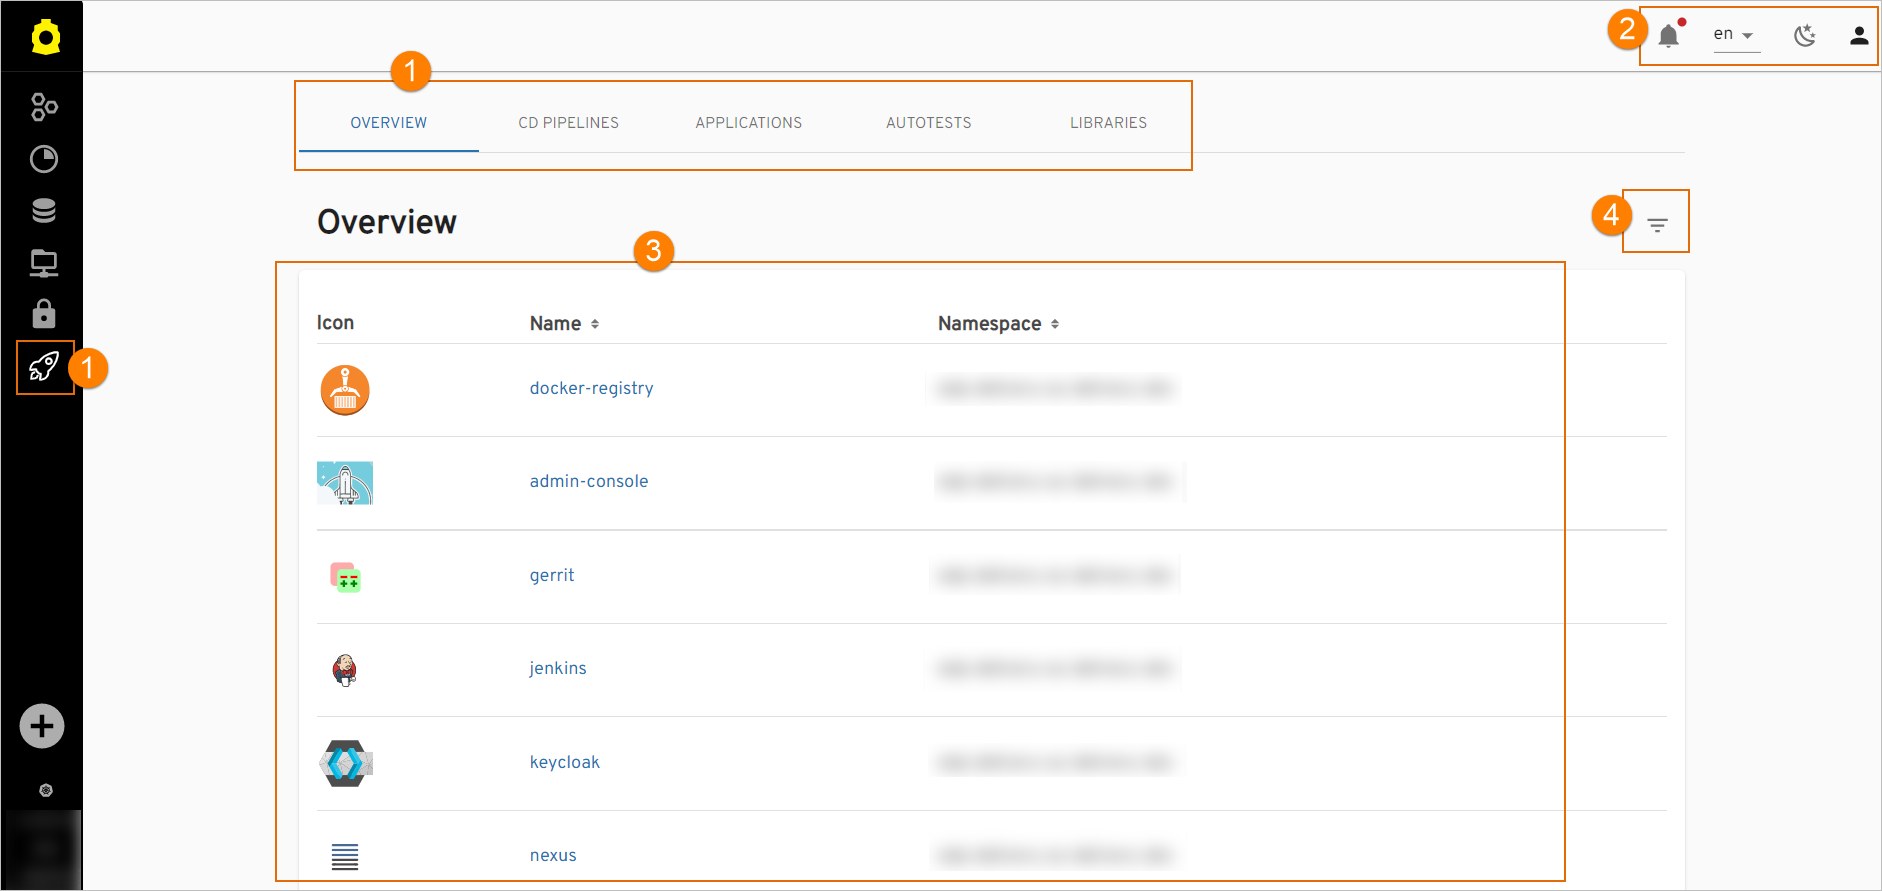
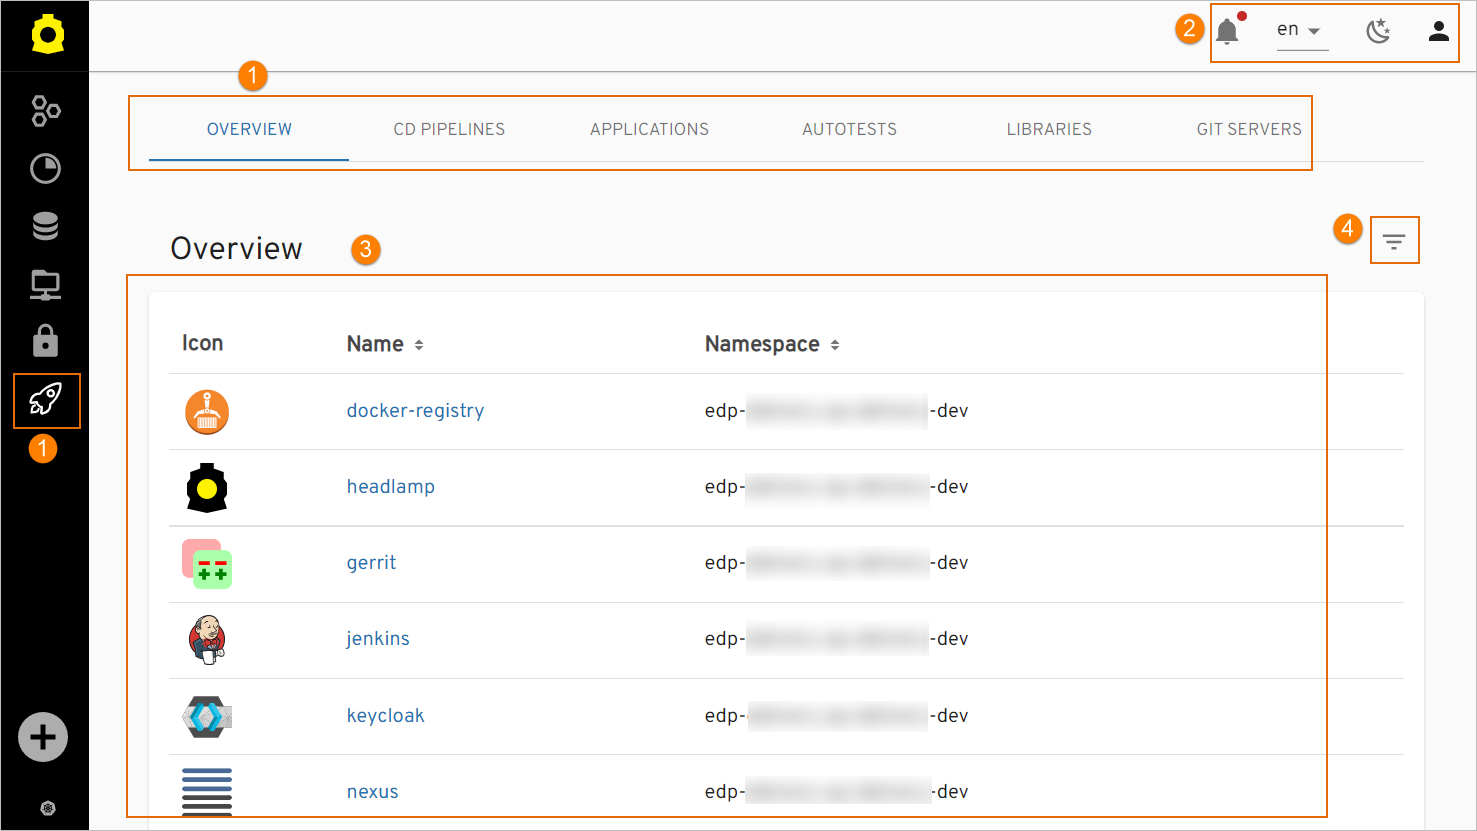
[EPMDEDP-11182]: docs: Update Headlamp User Guide
Updated CD pipeline stages description; added Tekton mentions; updated Headlamp Overview page

diff --git a/docs/headlamp-user-guide/add-cd-pipeline.md b/docs/headlamp-user-guide/add-cd-pipeline.md
@@ -102,11 +102,11 @@ page for details.
   g. Add an unlimited number of quality gates by clicking a corresponding plus sign icon and remove them as well
 by clicking the recycle bin icon;
 
-  h. Type the step name, which will be displayed in Jenkins, for every quality gate;
+  h. Type the step name, which will be displayed in Jenkins/Tekton, for every quality gate;
 
   i. Select the quality gate type:
 
-  * Manual - means that the promoting process should be confirmed in Jenkins manually;
+  * Manual - means that the promoting process should be confirmed in Jenkins/Tekton manually;
   * Autotests - means that the promoting process should be confirmed by the successful passing of the autotests.
 
   In the additional fields, select the previously created autotest name (j) and specify its branch for the autotest
@@ -126,55 +126,121 @@ next to its name.
 13. Click the **Apply** button to start the provisioning of the pipeline. After the CD pipeline is added, the new project
 with the stage name will be created in OpenShift.
 
-### Check CD Pipeline Availability
+## Manage CD Pipeline
 
 As soon as the CD pipeline is provisioned and added to the CD Pipelines list, there is an ability to:
 
-  !![CD page](../assets/headlamp-user-guide/headlamp-cd-pipeline-page.png "CD page")
+  !![CD pipeline page](../assets/headlamp-user-guide/headlamp-cd-pipeline-page.png "CD pipeline page")
 
 1. Create another application by clicking the plus sign icon in the lower-right corner of the screen and performing the same steps as described
 in the [Add CD Pipeline](#add-cd-pipeline) section.
 
-2. Sort the existing CD pipelines in a table by clicking the sorting icon in the **CD Pipeline** column. The CD pipelines will be displayed
-in alphabetical order.
+2. Open CD pipeline data by clicking its link name. Once clicked, the following blocks will be displayed:
 
-3. Sort the existing CD pipelines by their status in a table by clicking the sorting icon in the **Status** column.
+  * **General Info** - displays common information about the CD pipeline, such as name and deployment type.
+  * **Applications** - displays the CD pipeline applications to promote.
+  * **Stages** - displays the CD pipeline stages and stage metadata (by selecting the information icon near the stage name); allows to [add](#add-stage), [edit](#edit-stage) and [delete](#delete-stage) stages, as well as deploy or uninstall image stream versions of the related applications for a stage.
+  * **Metadata** - displays the CD pipeline name, namespace, creation date, finalizers, generation, resource version, and UID. Open this block by selecting the information icon near the options icon next to the CD pipeline name.
 
-4. Search the necessary CD pipeline by the namespace or by entering the corresponding name, language or the build tool into the **Filter** tool.
+3. Edit the CD pipeline by selecting the options icon next to its name in the CD Pipelines list, and then selecting **Edit**. For details see the [Edit Existing CD Pipeline](#edit-existing-pipeline) section.
 
-#### Edit CD Pipeline
-
-* Edit the CD pipeline by selecting the options icon next to its name in the CD Pipelines list, and then selecting **Edit**:
-
-  !![Edit CD pipeline](../assets/headlamp-user-guide/headlamp-edit-cd-pipeline.png "Edit CD pipeline")
-
-  * apply the necessary changes (the list of applications for deploy, application branches, and promotion in the pipeline) and click the **Apply** button to confirm the editions:
-
-   !![Edit CD pipeline page](../assets/headlamp-user-guide/headlamp-edit-cd-pipeline-page.png)
-
-  * add new extra stages steps by clicking the plus sign icon and filling in the application branch and promotion in the pipeline.
-
-* Check the CD pipeline general information, metadata, and stages by clicking the CD pipeline name in the CD Pipelines list:
-
-  !![CD pipeline details](../assets/headlamp-user-guide/headlamp-cd-pipeline-details.png "CD pipeline details")
-
-  * the **Edit** option in the options icon near the CD pipeline name refers to the same **Edit CD Pipeline** page as mentioned above and allows to apply the necessary changes;
-  
-  !![CD pipeline overview](../assets/headlamp-user-guide/headlamp-cd-pipeline-overview.png "CD pipeline overview")
-
-  * the **Create** menu in the **Stages** section opens the **Create stage** dialog;
-
-  * the options icon menu near the stage name allows editing or deleting the stage;
-  
-    !!! note
-        You cannot remove the last stage, as the CD pipeline does not exist without stages.
-
-  * the expand icon near the stage name allows displaying the general information, quality gates, and metadata for the stage.
-
-* Delete the added CD pipeline by selecting the options icon next to its name in the CD Pipelines list, and then selecting **Delete**.
+4. Delete the added CD pipeline by selecting the options icon next to its name in the CD Pipelines list, and then selecting **Delete**.
 
   !!! info
       In OpenShift, if the deployment fails with the ImagePullBackOff error, delete the POD.
+
+5. Sort the existing CD pipelines in a table by clicking the sorting icons in the table header. When sorting by name, the CD pipelines will be displayed in alphabetical order. You can also sort the CD pipelines by their status.
+
+6. Search the necessary CD pipeline by the namespace or by entering the corresponding name, language or the build tool into the **Filter** tool.
+
+7. Select a number of CD pipelines displayed per page (15, 25 or 50 rows) and navigate between pages if the number of CD pipelines exceeds the capacity of a single page.
+
+### Edit Existing CD Pipeline<a name="edit-existing-pipeline"></a>
+
+Edit the CD pipeline directly from the CD Pipelines overview page or when viewing the CD Pipeline data:
+
+1. Select **Edit** in the options icon menu next to the CD pipeline name:
+
+  !![Edit CD pipeline on the CD Pipelines overview page](../assets/headlamp-user-guide/headlamp-edit-cd-pipeline-1.png "Edit CD pipeline on the CD Pipelines overview page")
+
+  !![Edit CD pipeline when viewing the CD pipeline data](../assets/headlamp-user-guide/headlamp-edit-cd-pipeline-2.png "Edit CD pipeline when viewing the CD pipeline data")
+
+2. Apply the necessary changes (edit the list of applications for deploy, application branches, and promotion in the pipeline). Add new extra stages by clicking the plus sign icon and filling in the application branch and promotion in the pipeline.
+
+   !![Edit CD pipeline dialog](../assets/headlamp-user-guide/headlamp-edit-cd-pipeline-page.png "Edit CD pipeline dialog")
+
+3. Select the **Apply** button to confirm the changes.
+
+### Add a New Stage<a name="add-stage"></a>
+
+In order to create a new stage for the existing CD pipeline, follow the steps below:
+
+1. Navigate to the **Stages** block by clicking the CD pipeline name link in the CD Pipelines list.
+
+  !![Add CD pipeline stage](../assets/headlamp-user-guide/headlamp-add-cd-pipeline-stage.png "Add CD pipeline stage")
+
+3. Select **Create** to open the **Create stage** dialog.
+
+4. Click **Edit YAML** in the upper-right corner of the **Create stage** dialog to open the YAML editor and add a stage. Otherwise, fill in the required fields in the dialog. Please see the [Stages Menu](#the-stages-menu) section for details.
+
+5. Click the **Apply** button.
+
+### Edit Stage<a name="edit-stage"></a>
+
+In order to edit a stage for the existing CD pipeline, follow the steps below:
+
+1. Navigate to the **Stages** block by clicking the CD pipeline name link in the CD Pipelines list.
+
+  !![Edit CD pipeline stage](../assets/headlamp-user-guide/headlamp-edit-cd-pipeline-stage.png "Edit CD pipeline stage")
+
+2. Select the options icon related to the necessary stage and then select **Edit**.
+
+  !![Edit CD pipeline stage dialog](../assets/headlamp-user-guide/headlamp-edit-cd-pipeline-stage-dialog.png "Edit CD pipeline stage dialog")
+
+3. In the **Edit Stage** dialog, change the stage trigger type. See more about this field in the [Stages Menu](#the-stages-menu) section.
+
+4. Click the **Apply** button.
+
+### Delete Stage<a name="delete-stage"></a>
+
+!!! note
+    You cannot remove the last stage, as the CD pipeline does not exist without stages.
+
+In order to delete a stage for the existing CD pipeline, follow the steps below:
+
+1. Navigate to the **Stages** block by clicking the CD pipeline name link in the CD Pipelines list.
+
+  !![Delete CD pipeline stage](../assets/headlamp-user-guide/headlamp-edit-cd-pipeline-stage.png "Delete CD pipeline stage")
+
+2. Select the options icon related to the necessary stage and then select **Delete**. After the confirmation, the CD stage is deleted with all its components: database record, Jenkins/Tekton pipeline, and cluster namespace.
+
+### View Stage Data
+
+To view the CD pipeline stage data for the existing CD pipeline, follow the steps below:
+
+1. Navigate to the **Stages** block by clicking the CD pipeline name link in the CD Pipelines list.
+
+  !![Expand CD pipeline stage](../assets/headlamp-user-guide/headlamp-expand-stage.png "Expand CD pipeline stage")
+
+2. Select the expand icon near the stage name. The following blocks will be displayed:
+
+  !![CD pipeline stage overview](../assets/headlamp-user-guide/headlamp-stage-overview.png "CD pipeline stage overview")
+
+* **Applications** - displays the status of the applications related to the stage and allows [deploying the applications](#deploy-application). Applications health and sync statuses are returned from the Argo CD tool.
+* **General Info** - displays the stage status, CD pipeline, description, job provisioning, order, trigger type, and source.
+* **Quality Gates** - displays the stage quality gate type, step name, autotest name, and branch name.
+
+#### Deploy Application<a name="deploy-application"></a>
+
+Navigate to the **Applications block** of the stage and select an application. Select the image stream version from the drop-down list and click **Deploy**. The application will be deployed in the Argo CD tool as well.
+
+!![Deploy the promoted application](../assets/headlamp-user-guide/headlamp-deploy-application.png "Deploy the promoted application")
+
+To update or uninstall the application, select **Update** or **Uninstall**.
+
+!![Update or uninstall the application](../assets/headlamp-user-guide/headlamp-update-uninstall-application.png "Update or uninstall the application")
+
+After this, the application will be updated or uninstalled in the Argo CD tool as well.
 
 ## Related Articles
 

diff --git a/docs/headlamp-user-guide/library.md b/docs/headlamp-user-guide/library.md
@@ -6,13 +6,13 @@ This section describes the subsequent possible actions that can be performed wit
 
 As soon as the library is successfully provisioned, the following will be created:
 
-- Code Review and Build pipelines in Jenkins for this library. The Build pipeline will be triggered automatically if at least one environment is already added.
+- Code Review and Build pipelines in Jenkins/Tekton for this library. The Build pipeline will be triggered automatically if at least one environment is already added.
 - A new project in Gerrit or another VCS.
-- SonarQube integration will be available after the Build pipeline in Jenkins is passed.
-- Nexus Repository Manager will be available after the Build pipeline in Jenkins is passed as well.
+- SonarQube integration will be available after the Build pipeline in Jenkins/Tekton is passed.
+- Nexus Repository Manager will be available after the Build pipeline in Jenkins/Tekton is passed as well.
 
 !!! info
-    To navigate quickly to OpenShift, Jenkins, Gerrit, SonarQube, Nexus, and other resources, click the **Overview** section on the navigation bar and hit the necessary link.
+    To navigate quickly to OpenShift, Jenkins/Tekton, Gerrit, SonarQube, Nexus, and other resources, click the **Overview** section on the navigation bar and hit the necessary link.
 
 The added library will be listed in the Libraries list allowing to do the following:
 
@@ -29,7 +29,7 @@ The added library will be listed in the Libraries list allowing to do the follow
 
 3. Edit the library by selecting the options icon next to its name in the Libraries list, and then selecting **Edit**. For details see the [Edit Existing Library](#edit-existing-library) section.
 
-4. Remove library with the corresponding database and Jenkins pipelines by selecting the options icon next to its name in the Libraries list, and then selecting **Delete**:
+4. Remove library with the corresponding database and Jenkins/Tekton pipelines by selecting the options icon next to its name in the Libraries list, and then selecting **Delete**:
 
   !!! note
       The library that is used in a CD pipeline cannot be removed.
@@ -38,7 +38,7 @@ The added library will be listed in the Libraries list allowing to do the follow
 
 6. Search the necessary libraries by the namespace or by entering the corresponding name, language or the build tool into the **Filter** tool.
 
-7. Select a number of libraries displayed per page (15, 25 or 50 rows)  and navigate between pages if the number of libraries exceeds the capacity of a single page.
+7. Select a number of libraries displayed per page (15, 25 or 50 rows) and navigate between pages if the number of libraries exceeds the capacity of a single page.
 
 ## Edit Existing Library
 
@@ -62,7 +62,7 @@ EDP Headlamp provides the ability to enable, disable or edit the Jira Integratio
 
    b. Select the **Apply** button to apply the changes.
 
-   c. Navigate to Jenkins and add the _create-jira-issue-metadata_ stage in the Build pipeline. Also add the _commit-validate_ stage in the Code Review pipeline.
+   c. Navigate to Jenkins/Tekton and add the _create-jira-issue-metadata_ stage in the Build pipeline. Also add the _commit-validate_ stage in the Code Review pipeline.
 
 3. To disable Jira integration, in the **Edit Library** dialog do the following:
 
@@ -70,7 +70,7 @@ EDP Headlamp provides the ability to enable, disable or edit the Jira Integratio
 
    b. Select the **Apply** button to apply the changes.
 
-   c. Navigate to Jenkins and remove the _create-jira-issue-metadata_ stage in the Build pipeline. Also remove the _commit-validate_ stage in the Code Review pipeline.
+   c. Navigate to Jenkins/Tekton and remove the _create-jira-issue-metadata_ stage in the Build pipeline. Also remove the _commit-validate_ stage in the Code Review pipeline.
 
 As a result, the necessary changes will be applied.
 
@@ -81,7 +81,8 @@ As a result, the necessary changes will be applied.
 
 When adding a library, the default branch is a **master** branch. In order to add a new branch, follow the steps below:
 
-1. Navigate to the **Branches** block by clicking the application name link in the Applications list.
+1. Navigate to the **Branches** block by clicking the library name link in the Libraries list.
+
 2. Select the options icon related to the necessary branch and then select **Create**:
 
   !![Add branch](../assets/headlamp-user-guide/headlamp-addbranch1.png "Add branch")

diff --git a/docs/headlamp-user-guide/autotest.md b/docs/headlamp-user-guide/autotest.md
@@ -6,13 +6,13 @@ This section describes the subsequent possible actions that can be performed wit
 
 As soon as the autotest is successfully provisioned, the following will be created:
 
-- Code Review and Build pipelines in Jenkins for this autotest. The Build pipeline will be triggered automatically if at least one environment is already added.
+- Code Review and Build pipelines in Jenkins/Tekton for this autotest. The Build pipeline will be triggered automatically if at least one environment is already added.
 - A new project in Gerrit or another VCS.
-- SonarQube integration will be available after the Build pipeline in Jenkins is passed.
-- Nexus Repository Manager will be available after the Build pipeline in Jenkins is passed as well.
+- SonarQube integration will be available after the Build pipeline in Jenkins/Tekton is passed.
+- Nexus Repository Manager will be available after the Build pipeline in Jenkins/Tekton is passed as well.
 
 !!! info
-    To navigate quickly to OpenShift, Jenkins, Gerrit, SonarQube, Nexus, and other resources, click the **Overview** section on the navigation bar and hit the necessary link.
+    To navigate quickly to OpenShift, Jenkins/Tekton, Gerrit, SonarQube, Nexus, and other resources, click the **Overview** section on the navigation bar and hit the necessary link.
 
 The added autotest will be listed in the Autotests list allowing you to do the following:
 
@@ -29,7 +29,7 @@ The added autotest will be listed in the Autotests list allowing you to do the f
 
 3. Edit the autotest by selecting the options icon next to its name in the Autotests list, and then selecting **Edit**. For details see the [Edit Existing Autotest](#edit-existing-autotest) section.
 
-4. Remove autotest with the corresponding database and Jenkins pipelines by selecting the options icon next to its name in the Autotests list, and then selecting **Delete**:
+4. Remove autotest with the corresponding database and Jenkins/Tekton pipelines by selecting the options icon next to its name in the Autotests list, and then selecting **Delete**:
 
   !!! note
       The autotest that is used in a CD pipeline cannot be removed.
@@ -62,7 +62,7 @@ EDP Headlamp provides the ability to enable, disable or edit the Jira Integratio
 
    b. Select the **Apply** button to apply the changes.
 
-   c. Navigate to Jenkins and add the _create-jira-issue-metadata_ stage in the Build pipeline. Also add the _commit-validate_ stage in the Code Review pipeline.
+   c. Navigate to Jenkins/Tekton and add the _create-jira-issue-metadata_ stage in the Build pipeline. Also add the _commit-validate_ stage in the Code Review pipeline.
 
   !!! note
       Pay attention that the Jira integration feature is not available when using the GitLab CI tool.
@@ -76,7 +76,7 @@ EDP Headlamp provides the ability to enable, disable or edit the Jira Integratio
 
    b. Select the **Apply** button to apply the changes.
 
-   c. Navigate to Jenkins and remove the _create-jira-issue-metadata_ stage in the Build pipeline. Also remove the _commit-validate_ stage in the Code Review pipeline.
+   c. Navigate to Jenkins/Tekton and remove the _create-jira-issue-metadata_ stage in the Build pipeline. Also remove the _commit-validate_ stage in the Code Review pipeline.
 
 As a result, the necessary changes will be applied.
 
@@ -87,7 +87,7 @@ As a result, the necessary changes will be applied.
 
 When adding an autotest, the default branch is a **master** branch. In order to add a new branch, follow the steps below:
 
-1. Navigate to the **Branches** block by clicking the application name link in the Applications list.
+1. Navigate to the **Branches** block by clicking the autotest name link in the Autotests list.
 
 2. Select the options icon related to the necessary branch and then select **Create**:
 

diff --git a/docs/headlamp-user-guide/application.md b/docs/headlamp-user-guide/application.md
@@ -6,10 +6,10 @@ This section describes the subsequent possible actions that can be performed wit
 
 As soon as the application is successfully provisioned, the following will be created:
 
-- Code Review and Build pipelines in Jenkins for this application. The Build pipeline will be triggered automatically if at least one environment is already added.
+- Code Review and Build pipelines in Jenkins/Tekton for this application. The Build pipeline will be triggered automatically if at least one environment is already added.
 - A new project in Gerrit or another VCS.
-- SonarQube integration will be available after the Build pipeline in Jenkins is passed.
-- Nexus Repository Manager will be available after the Build pipeline in Jenkins is passed as well.
+- SonarQube integration will be available after the Build pipeline in Jenkins/Tekton is passed.
+- Nexus Repository Manager will be available after the Build pipeline in Jenkins/Tekton is passed as well.
 
 The added application will be listed in the Applications list allowing you to do the following:
 
@@ -61,7 +61,7 @@ EDP Headlamp provides the ability to enable, disable or edit the Jira Integratio
 
    b. Select the **Apply** button to apply the changes.
 
-   c. Navigate to Jenkins and add the _create-jira-issue-metadata_ stage in the Build pipeline. Also add the _commit-validate_ stage in the Code Review pipeline.
+   c. Navigate to Jenkins/Tekton and add the _create-jira-issue-metadata_ stage in the Build pipeline. Also add the _commit-validate_ stage in the Code Review pipeline.
 
 3. To disable Jira integration, in the **Edit Application** dialog do the following:
 
@@ -69,7 +69,7 @@ EDP Headlamp provides the ability to enable, disable or edit the Jira Integratio
 
    b. Select the **Apply** button to apply the changes.
 
-   c. Navigate to Jenkins and remove the _create-jira-issue-metadata_ stage in the Build pipeline. Also remove the _commit-validate_ stage in the Code Review pipeline.
+   c. Navigate to Jenkins/Tekton and remove the _create-jira-issue-metadata_ stage in the Build pipeline. Also remove the _commit-validate_ stage in the Code Review pipeline.
 
 ## Add a New Branch
 

diff --git a/docs/headlamp-user-guide/add-application.md b/docs/headlamp-user-guide/add-application.md
@@ -1,6 +1,6 @@
 # Add Application
 
-Headlamp allows to create, clone, import an application and add it to the environment. It can also be deployed in Gerrit (if the Clone or Create strategy is used) with the Code Review and Build pipelines built in Jenkins.
+Headlamp allows to create, clone, import an application and add it to the environment. It can also be deployed in Gerrit (if the Clone or Create strategy is used) with the Code Review and Build pipelines built in Jenkins/Tekton.
 
 To add an application, navigate to the **Applications** section on the navigation bar and click **Create** (the plus sign icon in the lower-right corner of the screen). Once clicked, the **Create Application** dialog will appear. You can create an Application [in YAML](#YAML) or [via the three-step menu](#menu) in the dialog.
 

diff --git a/docs/headlamp-user-guide/add-library.md b/docs/headlamp-user-guide/add-library.md
@@ -1,6 +1,6 @@
 # Add Library
 
-Headlamp helps to create, clone or import a library and add it to the environment. It can also be deployed in Gerrit (if the Clone or Create strategy is used) with the Code Review and Build pipelines built in Jenkins.
+Headlamp helps to create, clone or import a library and add it to the environment. It can also be deployed in Gerrit (if the Clone or Create strategy is used) with the Code Review and Build pipelines built in Jenkins/Tekton.
 
 To add a library, navigate to the **Libraries** section on the navigation bar and click **Create** (the plus sign icon in the lower-right corner of the screen). Once clicked, the **Create Library** dialog will appear. You can create a library [in YAML](#YAML) or [via the three-step menu](#menu) in the dialog.
 

diff --git a/docs/headlamp-user-guide/add-autotest.md b/docs/headlamp-user-guide/add-autotest.md
@@ -1,6 +1,6 @@
 # Add Autotests
 
-Headlamp enables to clone or import an autotest, add it to the environment with its subsequent deployment in Gerrit (in case the Clone strategy is used) and building of the Code Review pipeline in Jenkins, as well as to use it for work with an application under development.
+Headlamp enables to clone or import an autotest, add it to the environment with its subsequent deployment in Gerrit (in case the Clone strategy is used) and building of the Code Review pipeline in Jenkins/Tekton, as well as to use it for work with an application under development.
  It is also possible to use autotests as quality gates in a newly created CD pipeline.
 
 !!! info

diff --git a/docs/headlamp-user-guide/index.md b/docs/headlamp-user-guide/index.md
@@ -1,7 +1,7 @@
 # Overview
 
 !!! important
-    <p>Headlamp will replace the Admin Console tool that will be deprecated in the upcoming releases.<br> This Guide is under development and may be changed.</p>
+    Headlamp will replace the Admin Console tool that will be deprecated in the upcoming releases.
 
 The EDP Headlamp User guide is intended for developers and provides details on working with EDP Headlamp, different codebase types, and EDP CI/CD flow.
 
